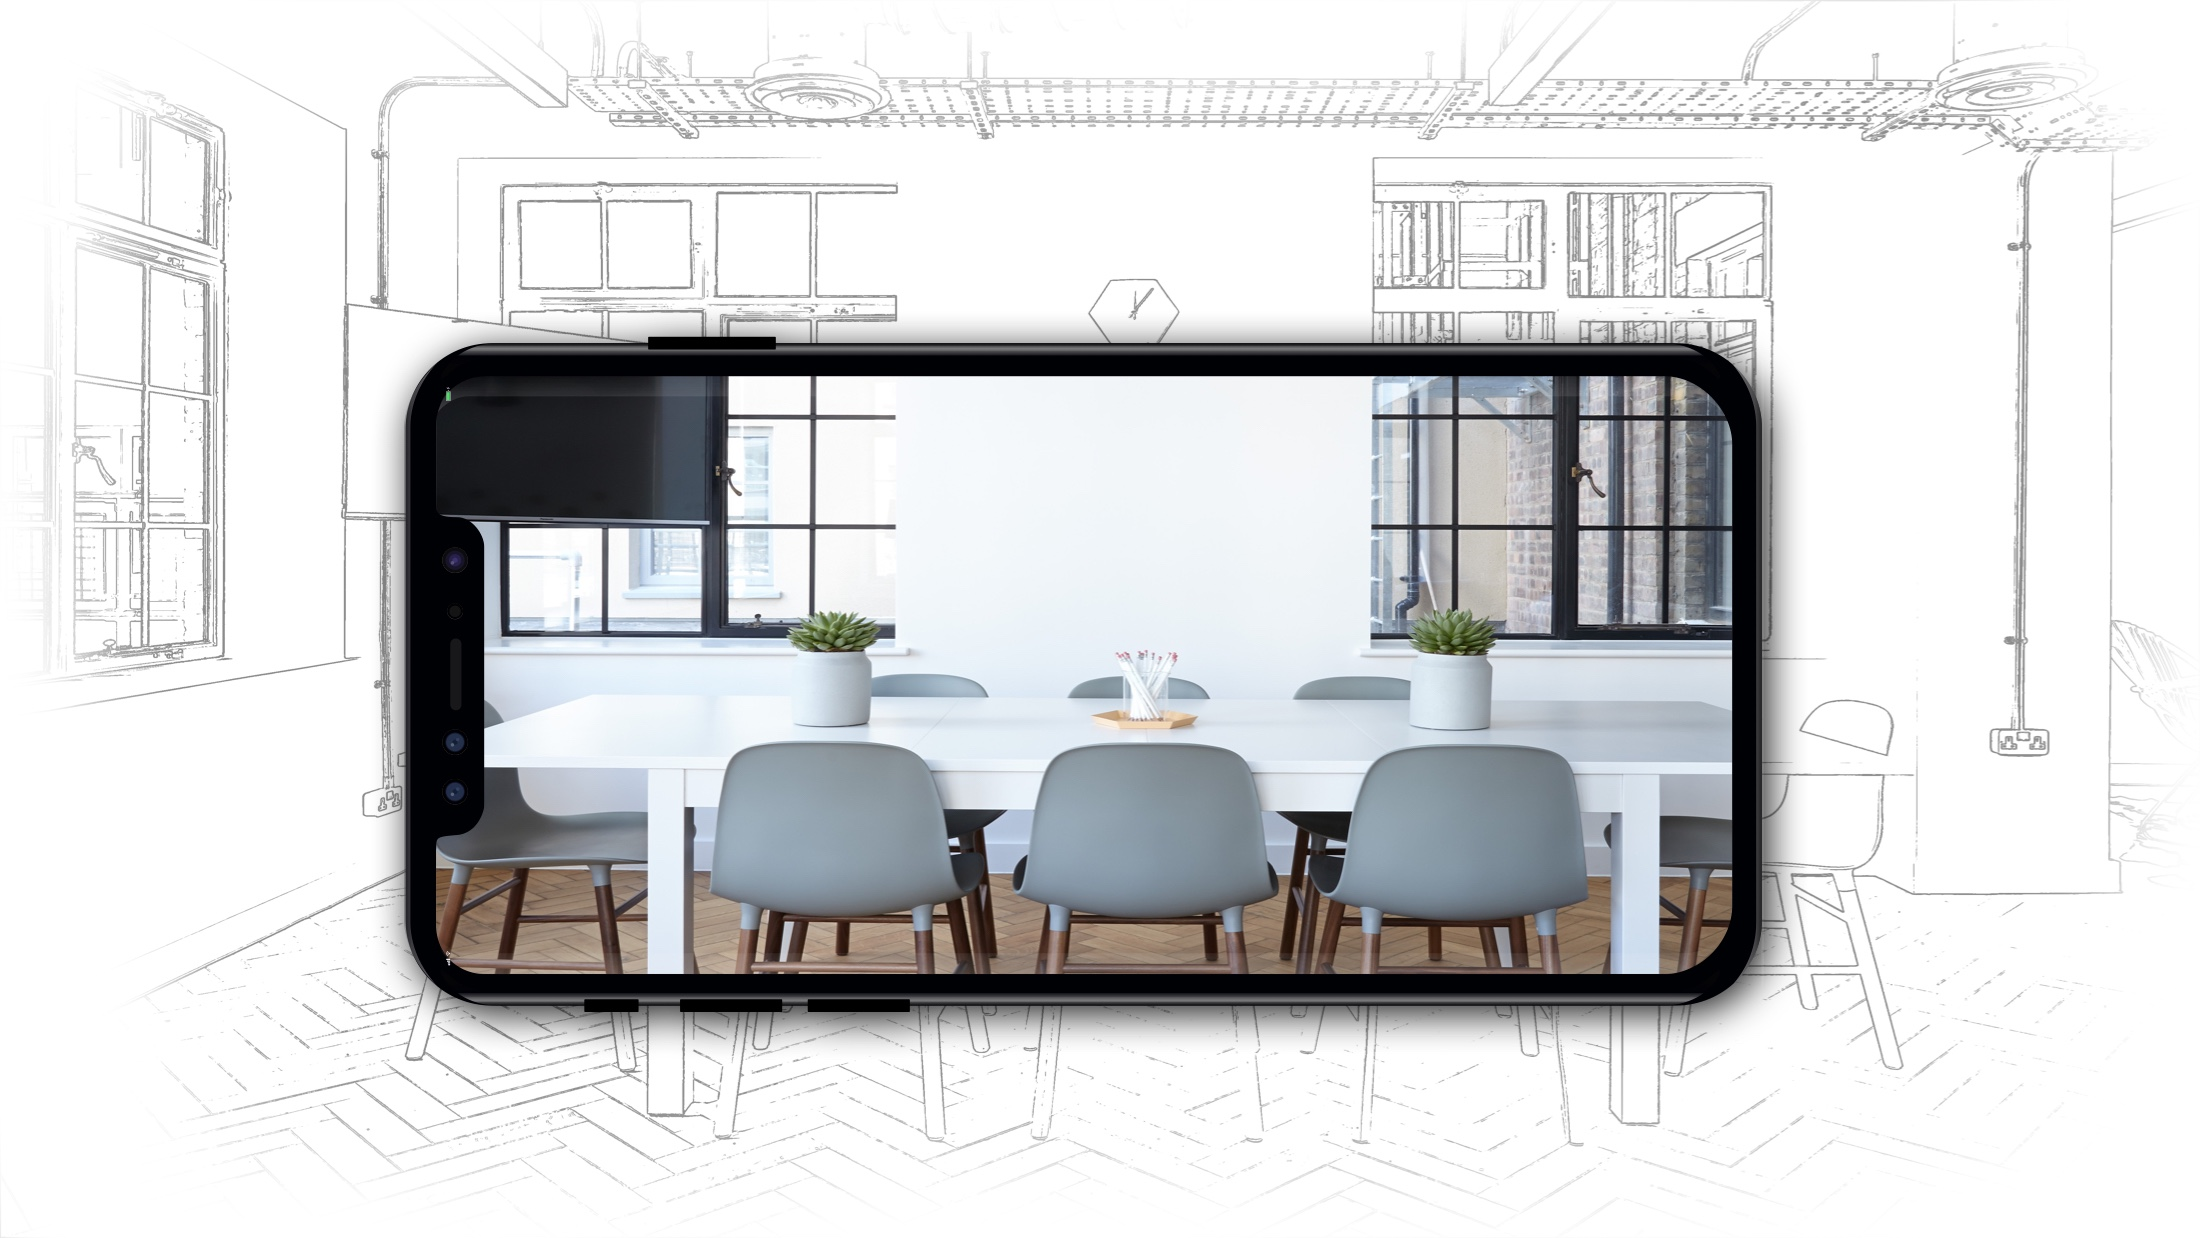
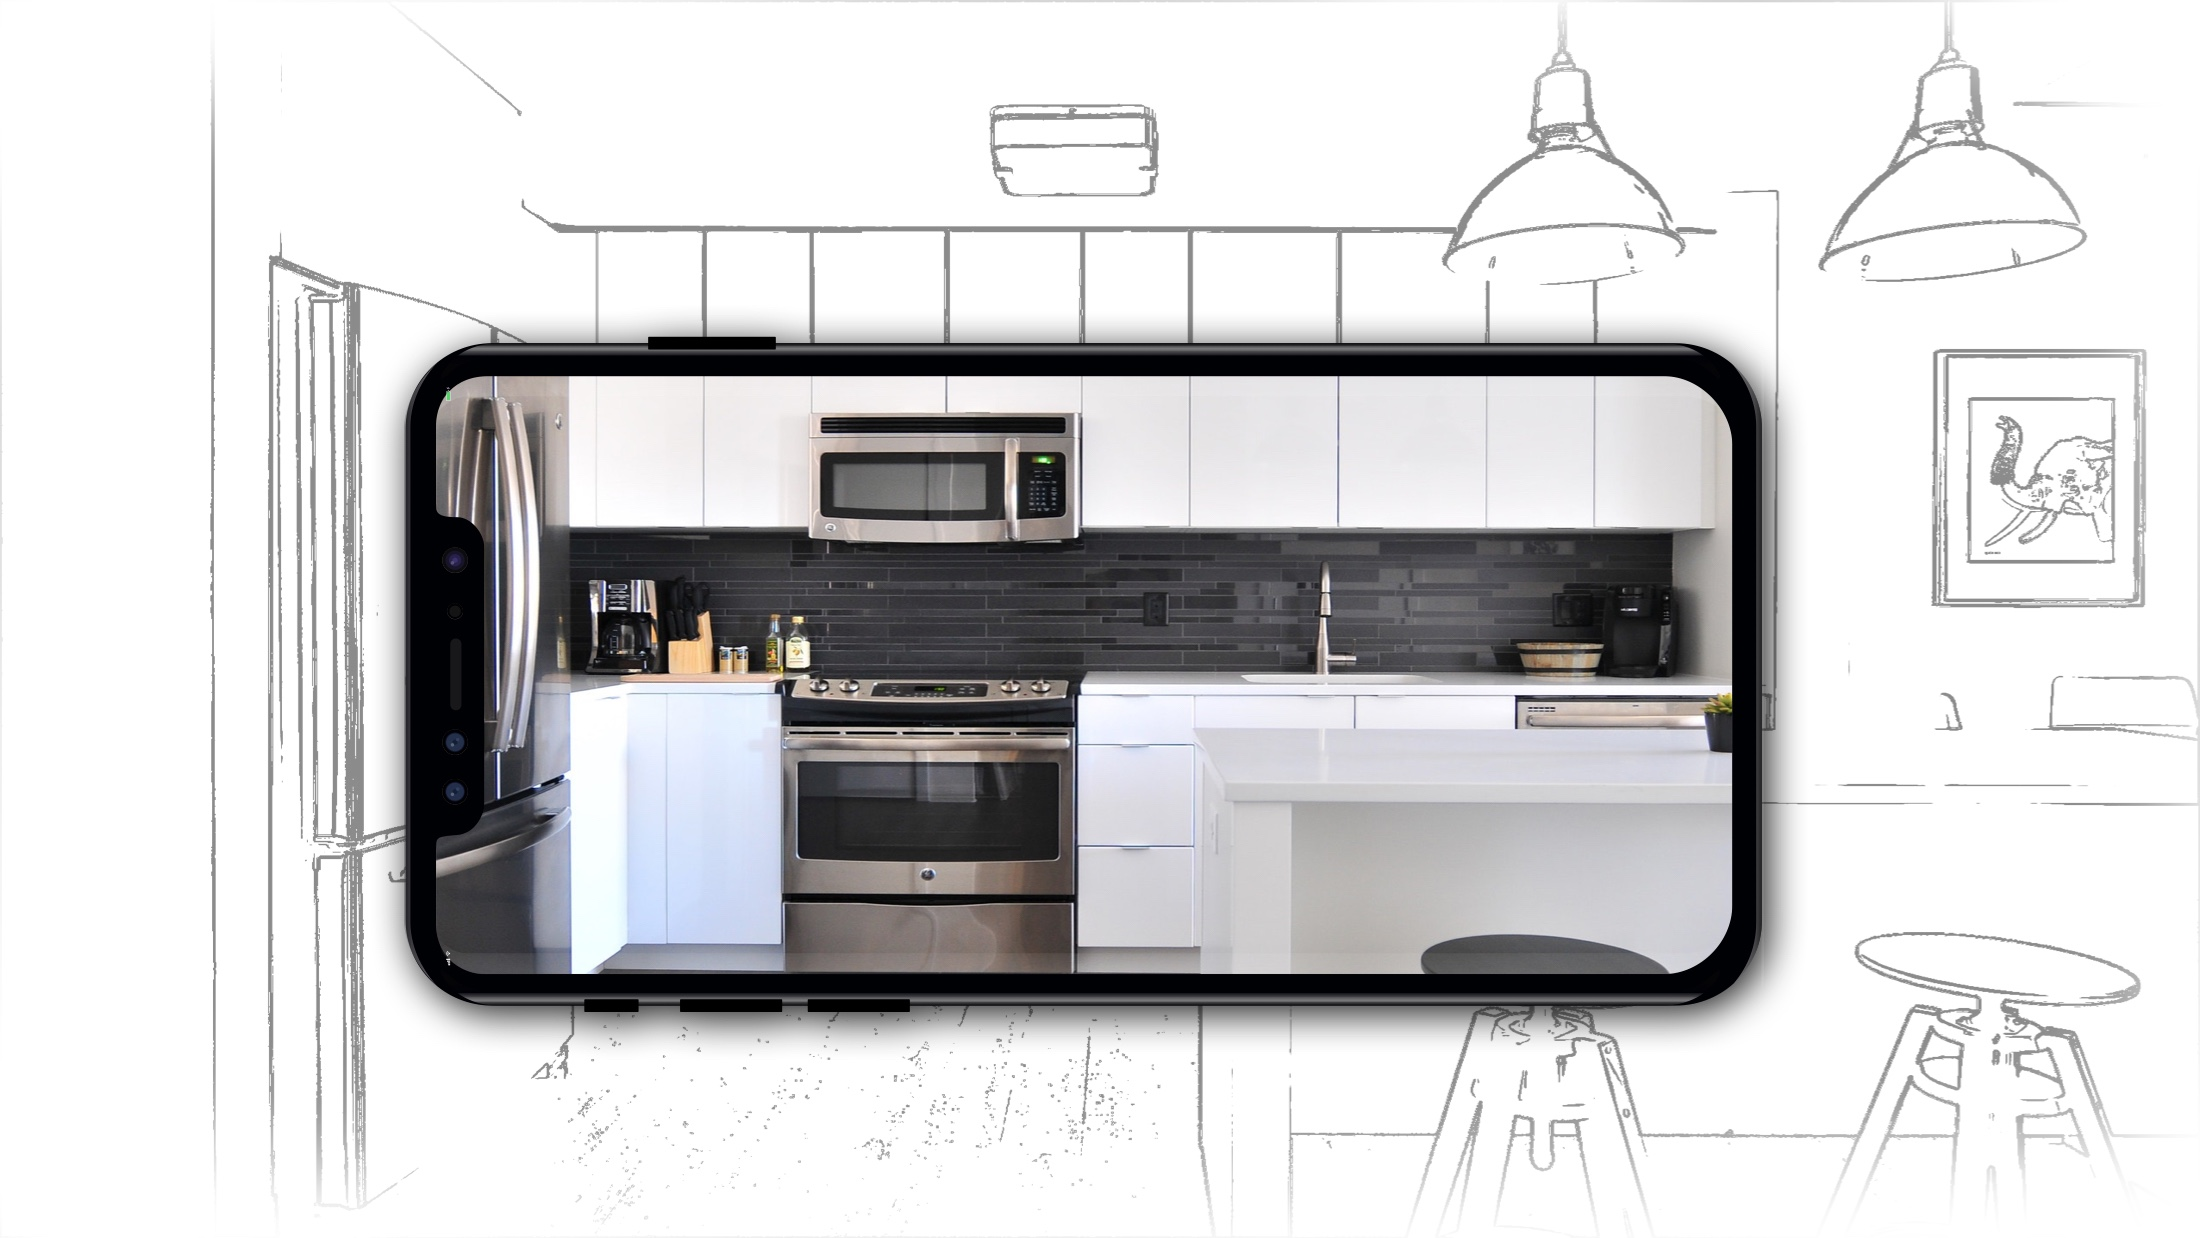
Alterada imagem de fundo e tabbar centralizada

diff --git a/teza/index.html b/teza/index.html
@@ -62,7 +62,7 @@
             </div>
         </div>
     </nav>
-    <div class="page-header header-filter clear-filter purple-filter" data-parallax="true" style="background-image: url('./img/bg1.jpg'); transform: translate3d(0px, 24px, 0px);">
+    <div class="page-header header-filter clear-filter purple-filter carousel slide carousel-fade" data-ride="carousel" data-parallax="true" style="background-image: url('./img/bg2.jpg'); transform: translate3d(0px, 24px, 0px);">
         <div class="container">
             <div class="row">
                 <div class="col-md-8 ml-auto mr-auto">
@@ -128,7 +128,7 @@
                         <!-- colors: "header-primary", "header-info", "header-success", "header-warning", "header-danger" -->
                         <div class="nav-tabs-navigation">
                             <div class="nav-tabs-wrapper">
-                                <ul class="nav nav-tabs" data-tabs="tabs">
+                                <ul class="nav nav-tabs justify-content-center" data-tabs="tabs">
                                     <li class="nav-item">
                                         <a class="nav-link active" href="#profile" data-toggle="tab">
                                             <i class="material-icons">security</i> Segurança
